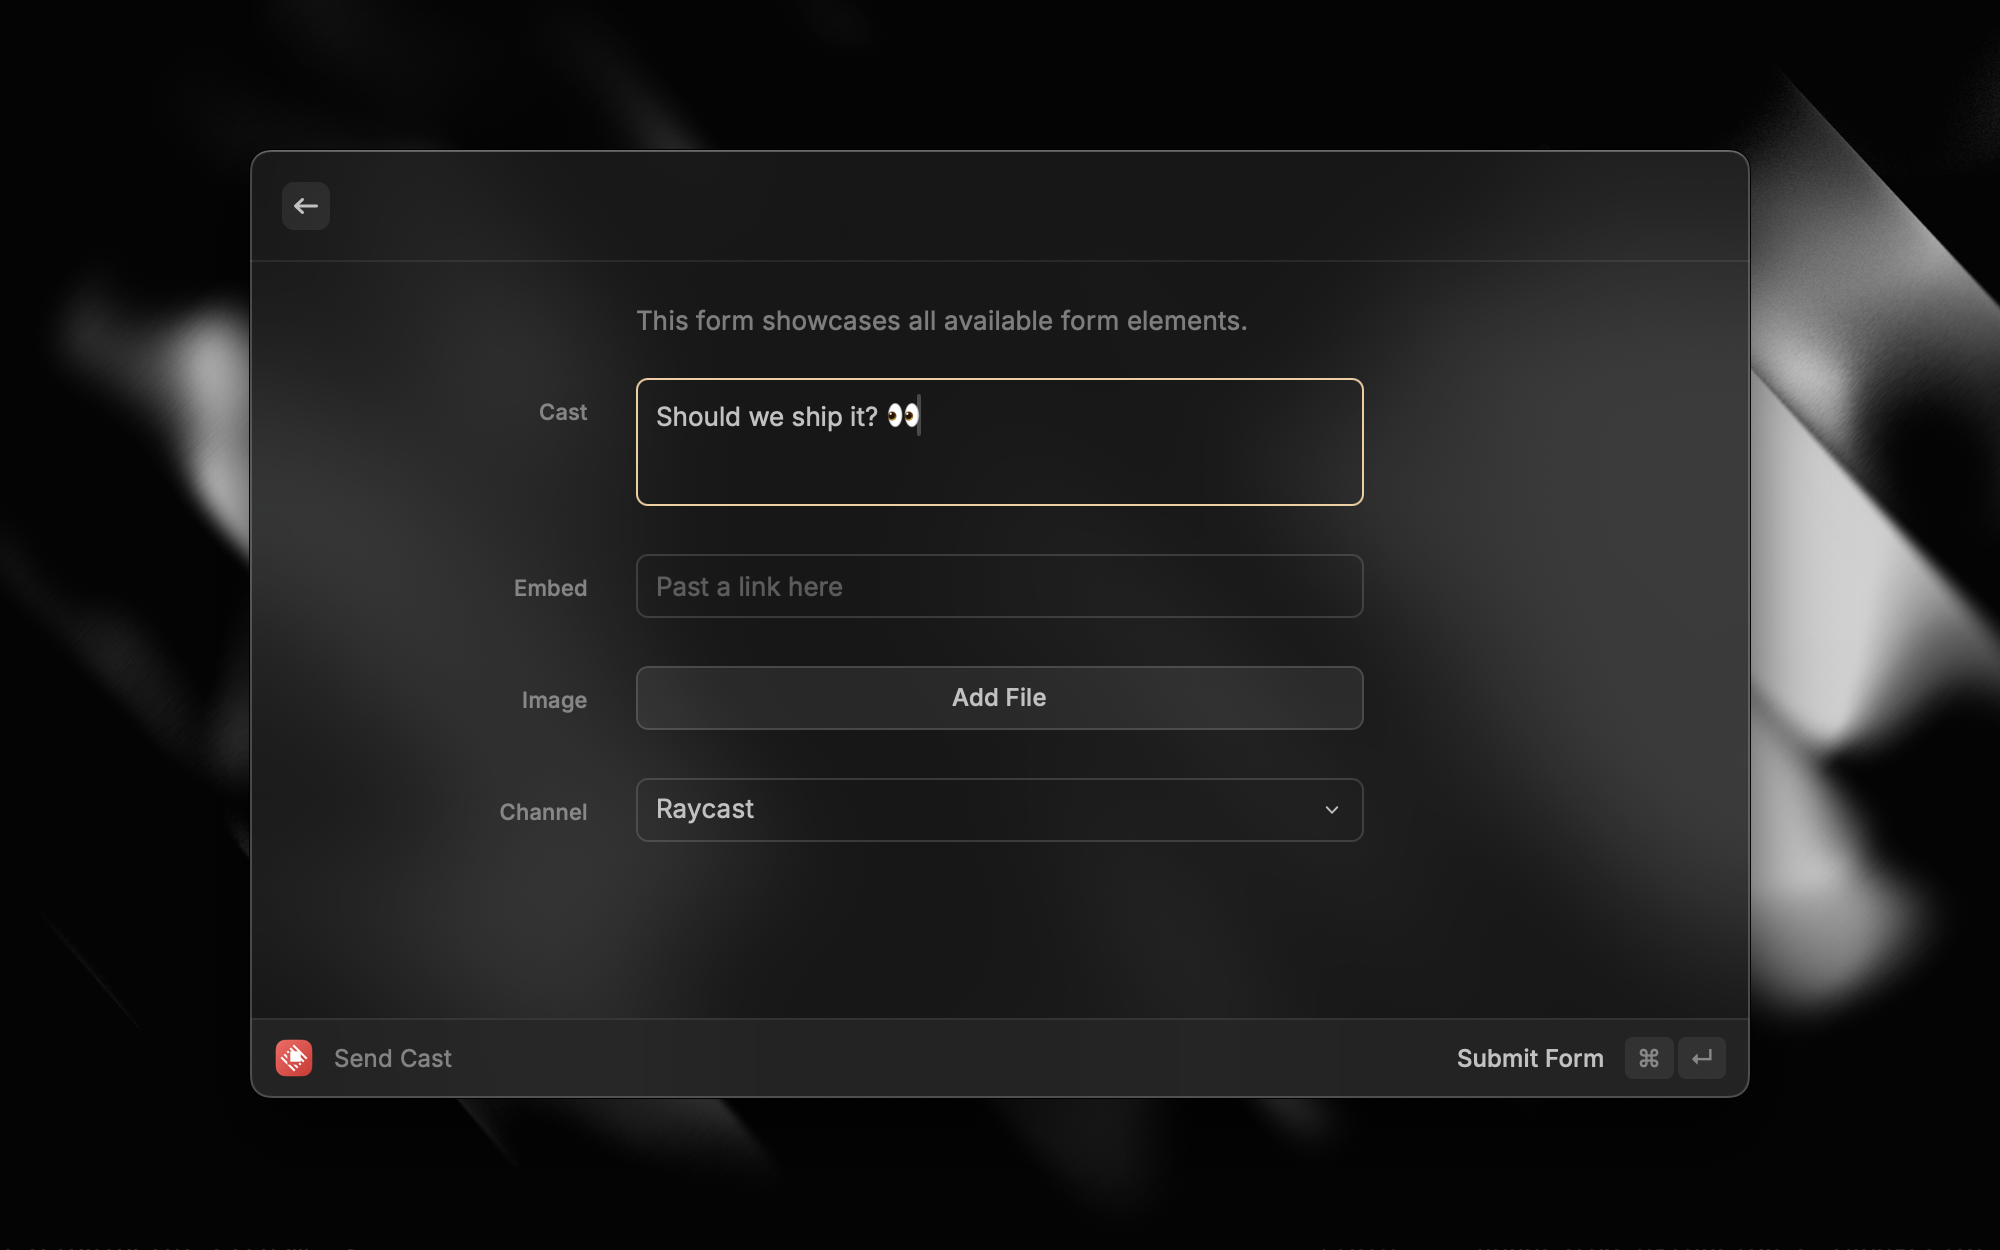
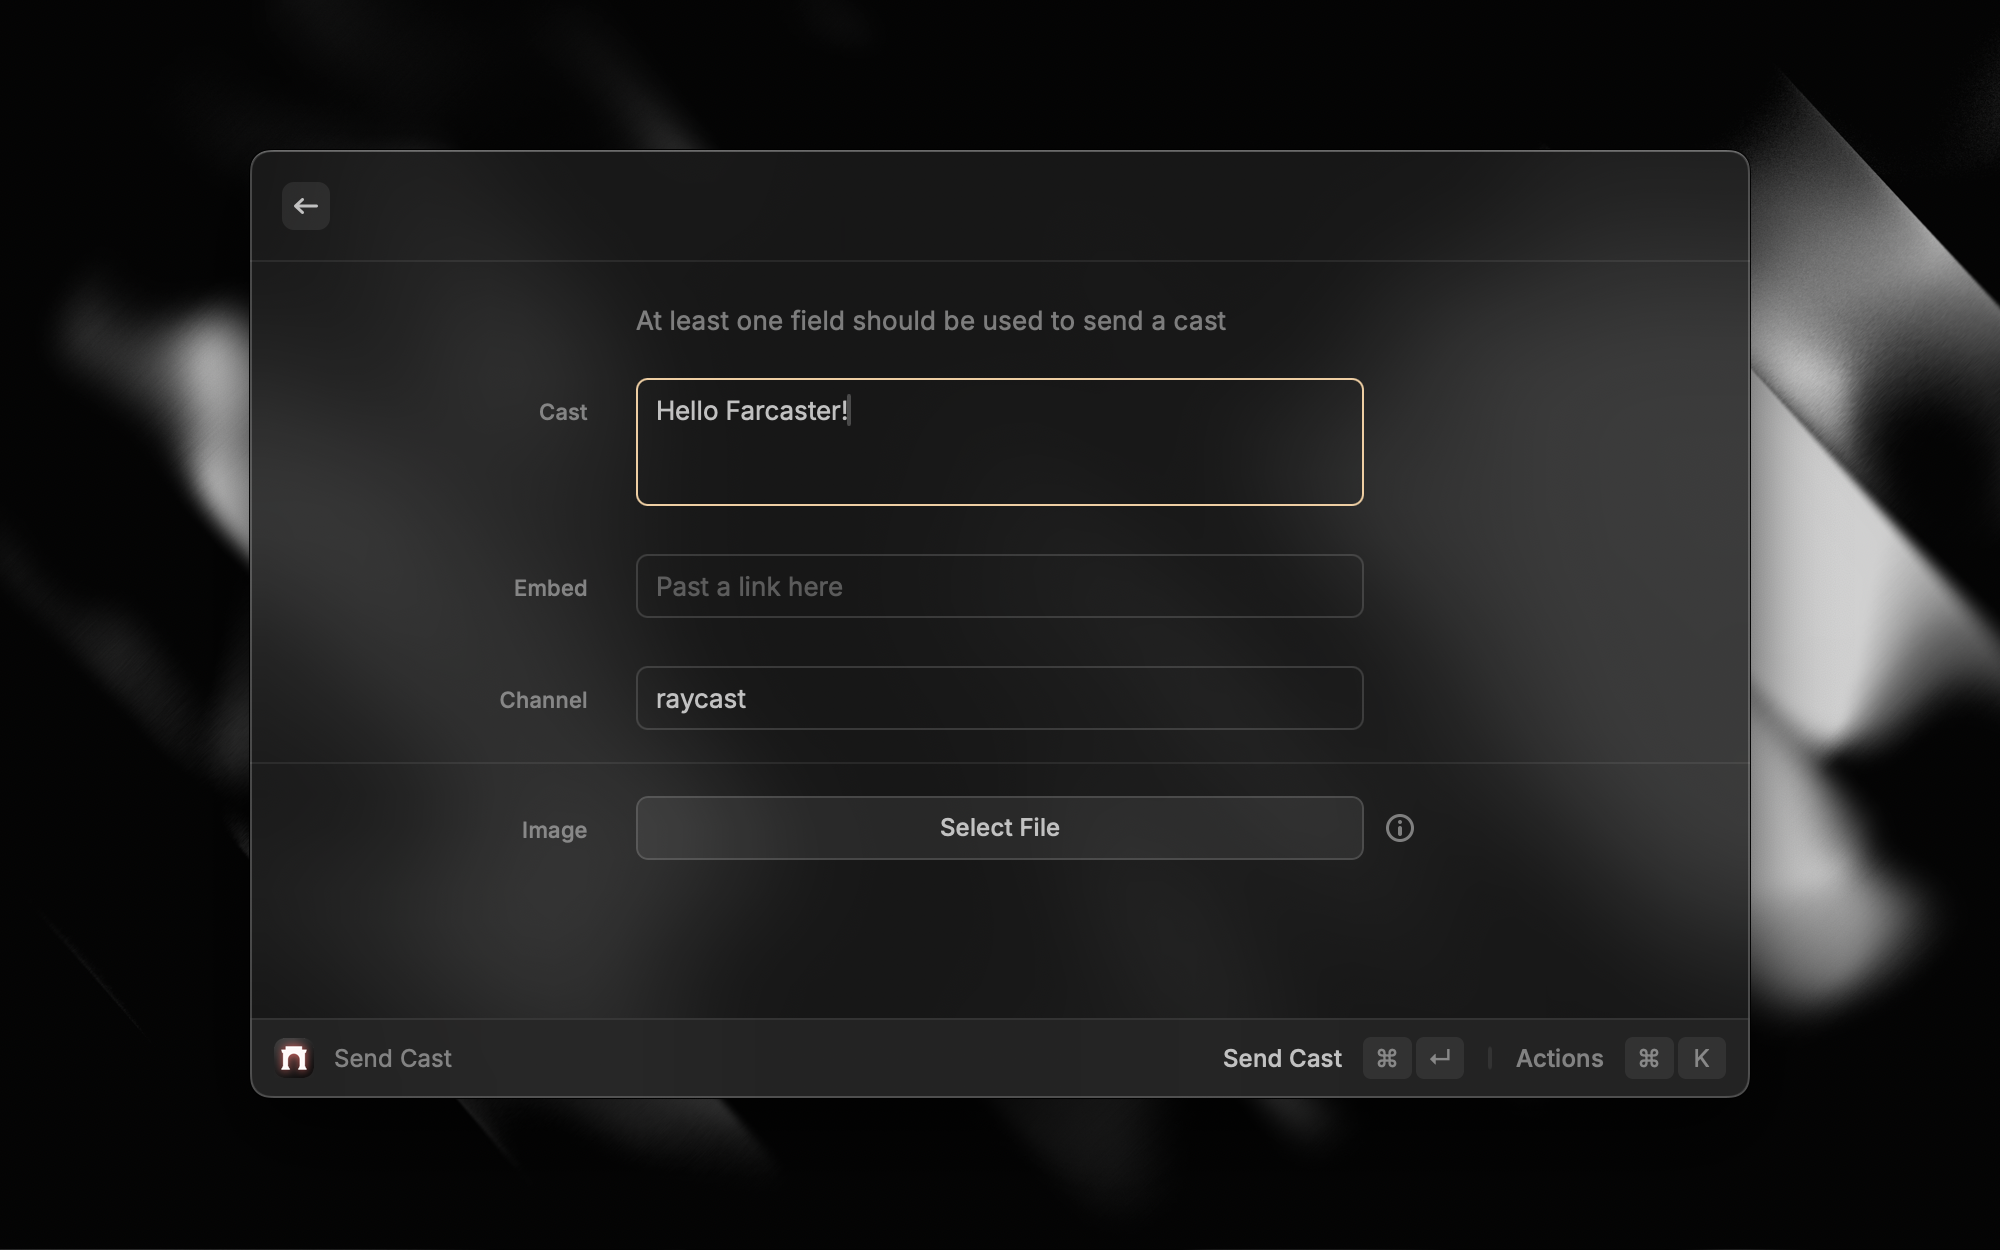
finished last pieces

diff --git a/src/send-cast.tsx b/src/send-cast.tsx
@@ -9,6 +9,8 @@ import {
   Toast,
   openExtensionPreferences,
   Detail,
+  showHUD,
+  PopToRootType,
 } from "@raycast/api";
 import { Message, NobleEd25519Signer, CastAddBody, makeCastAdd } from "@farcaster/core";
 import { Values, ChannelResult, CastAddData, FileUploadResult } from "./types";
@@ -150,7 +152,6 @@ Press Enter then update the key on the right side of the prefernce pane
       });
 
       const castResult = await castRequest.json();
-      console.log(castResult);
       return castResult;
     } catch (error) {
       console.log("problem sending cast:", error);
@@ -171,7 +172,6 @@ Press Enter then update the key on the right side of the prefernce pane
 
         const channelRes = (await channelReq.json()) as ChannelResult;
         channelUrl = channelRes.result.channel.url;
-        console.log(channelRes);
       } else {
         channelUrl = undefined;
       }
@@ -187,9 +187,7 @@ Press Enter then update the key on the right side of the prefernce pane
       if (!castRes) {
         throw new Error("Trouble sending cast");
       }
-
-      const castData = castRes as CastAddData;
-      showToast({ title: "Cast Sent!", message: castData.data.hash as string });
+      await showHUD("Cast Sent!", { clearRootSearch: true, popToRootType: PopToRootType.Immediate });
     } catch (error) {
       console.log(error);
       showToast({ title: "Problem sending cast", message: error as string, style: Toast.Style.Failure });
@@ -214,7 +212,7 @@ Press Enter then update the key on the right side of the prefernce pane
       actions={
         <ActionPanel>
           <Action.SubmitForm title="Send Cast" onSubmit={handleSubmit} />
-          <Action title="Setup Pinata for Images" onAction={openExtensionPreferences} />
+          <Action shortcut={{ modifiers: ["cmd", "shift"], key: "p" }} title="Setup Pinata for Images" onAction={openExtensionPreferences} />
         </ActionPanel>
       }
     >

diff --git a/README.md b/README.md
@@ -1,3 +1,19 @@
 # Raycaster
 
-Send casts to Farcaster from Raycast
+The easiest way to send casts to [Farcaster](https://farcaster.xyz) from Raycast! Made possible through [Pinata's](https://pinata.cloud) Farcaster Hub and IPFS API for image uploads.
+
+Requires a Farcaster account on [Warpcast's](https://warpcast.com) mobile app to authorize.
+
+## Getting Started
+
+After installing the Raycaster extension you will need to authorize it with the `Authorize Raycaster` command. This will bring up a QR code you can scan with your phone to approve in the Warpcast app. Once approved Raycaster will store the approved signer key and your account FID to local storage.
+
+Once you are authorized you can start sending casts with the `Send Cast` command! You will find a place to put text for a cast, a place to paste a link, and a field for a channel if you want to cast in one. The channel field works by simply typing the name of the channel seen with the forward slash. For example, `/diet-coke` would just be `diet-coke`. 
+
+## Images
+
+Image uploads are built in using Pinata. To add your key you can go to the `Send Cast` command and press `Command + Shift + p` which will open up the extension preferences. There you can put in your [Pinata API JWT](https://docs.pinata.cloud/account-management/api-keys) and your [Dedicated Gateway Domain](https://docs.pinata.cloud/gateways/dedicated-ipfs-gateways) (in the format of `llama-donkey-100.mypinata.cloud`).
+
+## Contact
+
+If you have any questions or requests please feel free to [contact me](mailto:hello@stevedylan.dev)!
